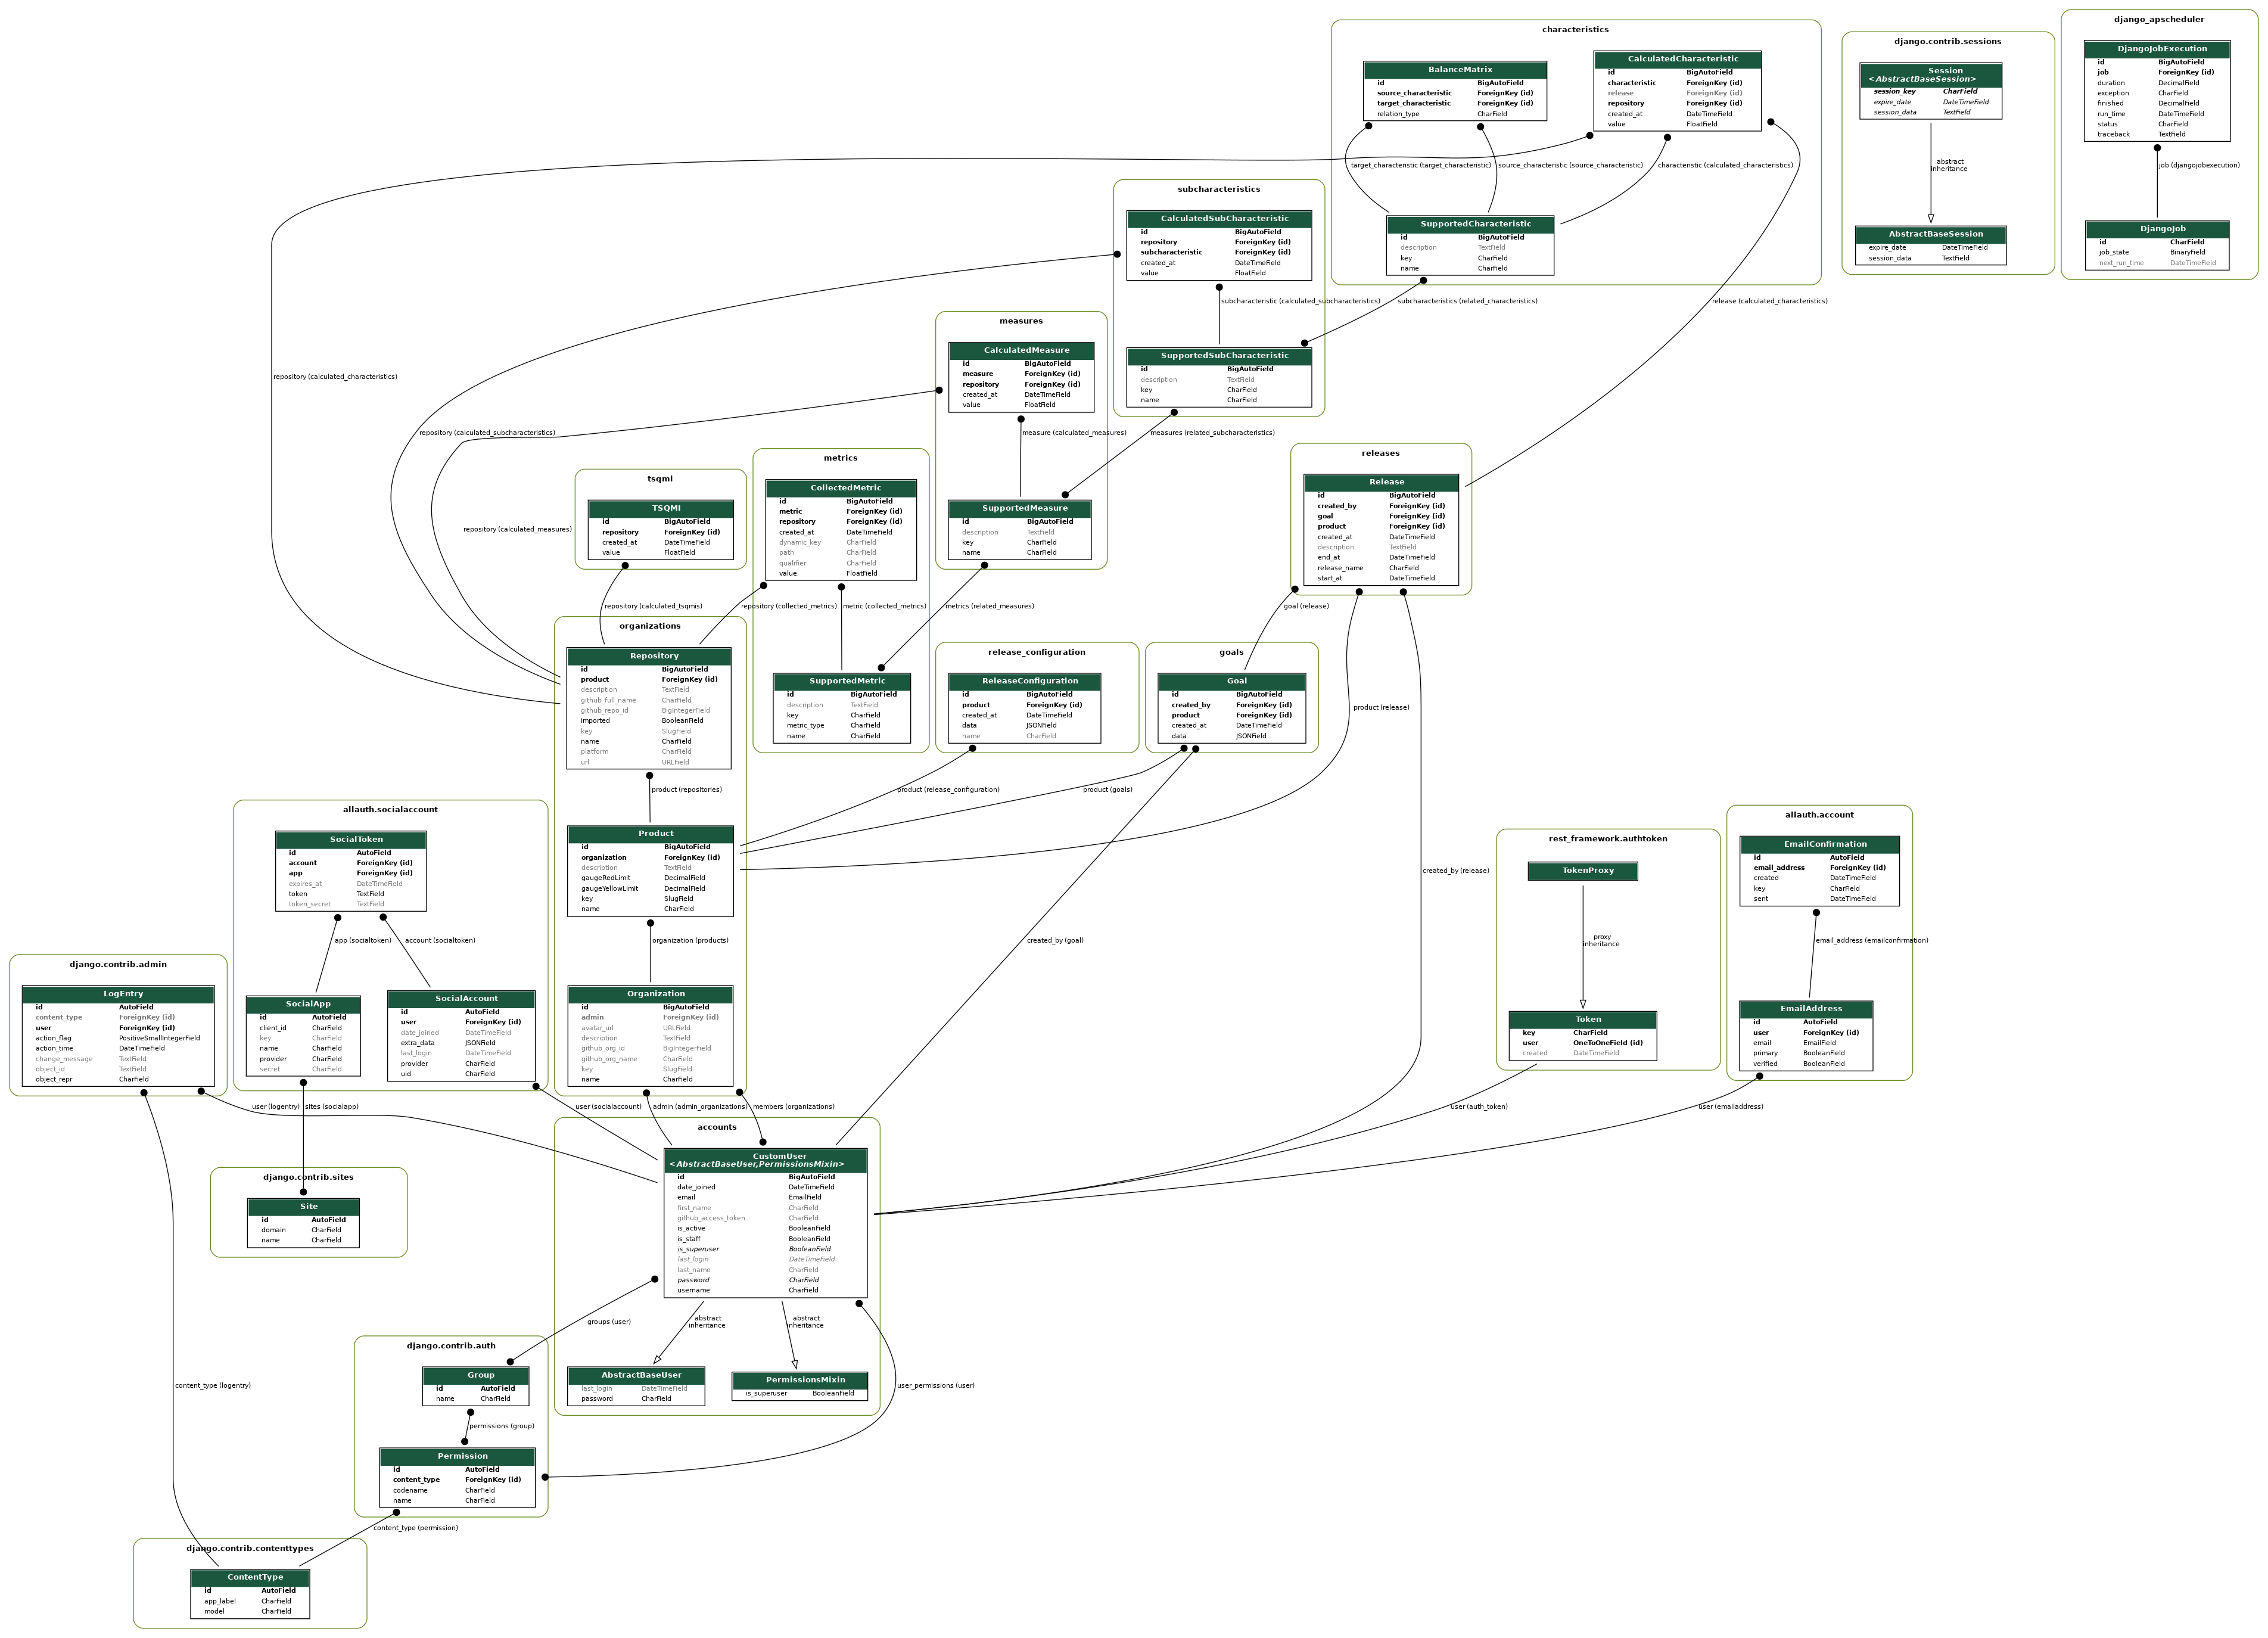
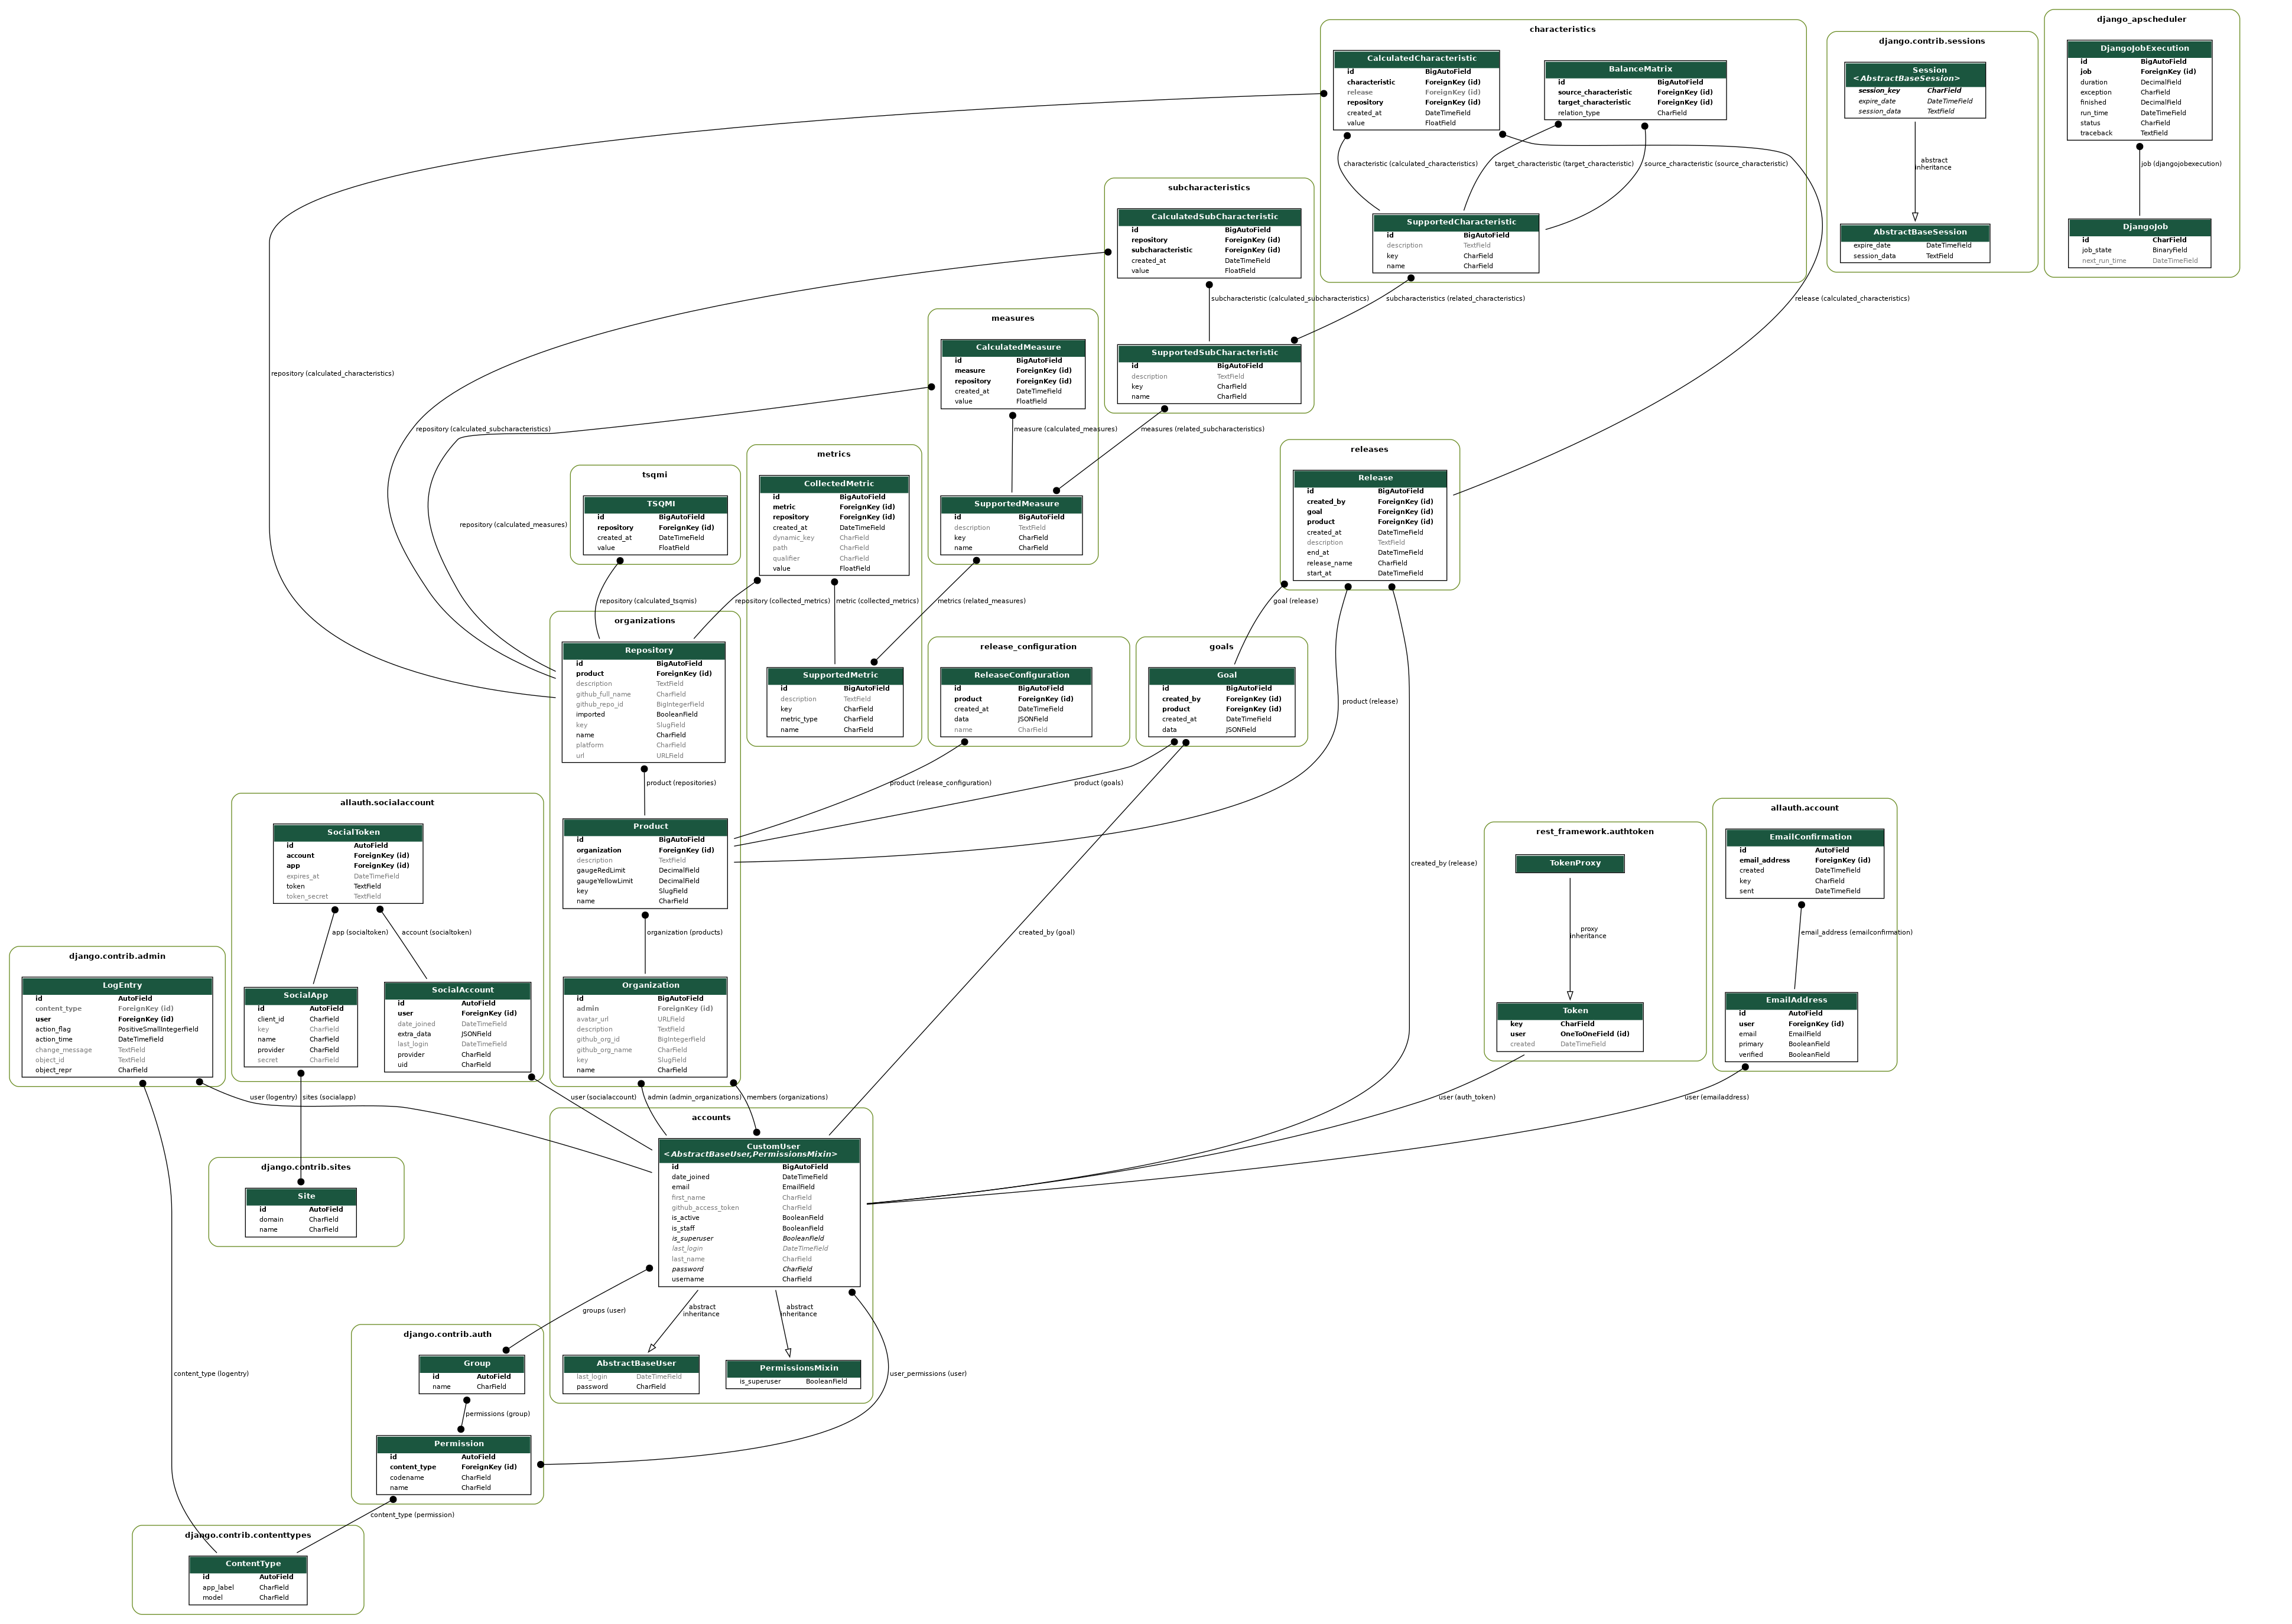
docs: atualiza DLD, remove limitação de casos de uso e corrige dados de qualidade
- Regenera o DLD (dld_gerado_graph_models.png) via graph_models a partir do
  models.py da branch develop do Service, removendo o diagrama manual do
  brModelo (DLD_MEASURE_2026.1.png) e mantendo só o gerado por introspecção.
- Remove o bloco de limitação conhecida da Visão de Casos de Uso.
- Corrige as tabelas de qualidade (planejado-realizado.md) usando somente os
  arquivos JSON de Analytics/data/: acerta o rótulo de release da Minor 4
  (estava com dados do Front da Minor 5), adiciona a Release Minor 5
  (15/06/2026, antes ausente), corrige as datas de última análise de CLI,
  Core e Parser na Major 3 e remove contagens de bugs/vulnerabilidades das
  tabelas. Adiciona a Release Minor 6 (06/07/2026).

diff --git a/docs/produto/planejado-realizado.md b/docs/produto/planejado-realizado.md
@@ -325,7 +325,7 @@ Dados provenientes dos arquivos persistidos em `Analytics/data/` referentes a 24
 | Core | Python | 1.392 | 91,6% * | — ¹ | A * | — | 0,0% * |
 | Front | TypeScript | 11.088 | 64,1% | **C** | A | — | 4,2% |
 | Parser | Python | 252 | 89,6% * | A * | A * | A (100%) * | 0,0% * |
-| Service | Python/Shell | 5.600 | 78,9% ² | A (3 bugs) | A | **E (0,0%)** | 0,7% |
+| Service | Python/Shell | 5.600 | 78,9% ² | A | A | **E (0,0%)** | 0,7% |
 
 **Conformidade com as metas planejadas:**
 
@@ -344,18 +344,23 @@ Dados provenientes dos arquivos persistidos em `Analytics/data/` referentes a 24
 
 ---
 
-#### Release Minor 4 (junho/2026)
+!!! info "Fonte dos dados desta revisão"
+    Os valores de Coverage, Linhas, Duplication e as classificações Reliability/Security das seções Minor 4, Minor 5 e Major 3 abaixo foram recalculados **exclusivamente a partir dos arquivos JSON persistidos em `Analytics/data/`** deste repositório (nenhuma captura de dashboard foi usada nesta revisão). Esses arquivos não incluem contagens de bugs/vulnerabilidades nem os campos "Hotspots Reviewed" e "Quality Gate" — por isso essas duas colunas mantêm o último valor conhecido (fonte: dashboard, revisões anteriores) e não fazem parte desta correção.
 
-Dados coletados do dashboard do SonarCloud para a Release Minor 4:
+#### Release Minor 4 (01/06/2026)
+
+Dados extraídos dos arquivos JSON persistidos mais próximos de 01/06/2026. Action e Front têm snapshot exatamente nesta data. CLI, Core, Parser e Service não foram reprocessados pelo SonarCloud no período — mantêm o último valor real disponível (marcado com `*`).
 
 | Repositório | Linguagem | Linhas | Coverage | Reliability | Security | Hotspots Reviewed | Duplication | Quality Gate |
 |-------------|-----------|--------|----------|-------------|----------|-------------------|-------------|:------------:|
-| Action | TypeScript | 663 | 82,7% | A (0 bugs) | A (0) | A (100%) | 0,0% | Passed |
-| CLI | Python | 1.800 | 90,8% | A (0 bugs) | A (0) | A (100%) | 0,0% | Passed |
-| Core | Python | 1.400 | 91,6% | A (3 bugs) | A (0) | A (100%) | 0,0% | Passed |
-| Front | TypeScript | 10.000 | 79,6% | **C (12 bugs)** | A (0) | A (100%) | 1,6% | Passed |
-| Parser | Python | 252 | 89,6% | A (0 bugs) | A (0) | A (100%) | 0,0% | — |
-| Service | Python/Shell | 5.600 | 78,9% | A (3 bugs) | A (0) | **E (0,0%)** | 0,7% | — |
+| Action | TypeScript | 663 | 82,7% | A | A | A (100%) | 0,0% | Passed |
+| CLI | Python | 1.790 | 90,8% * | A * | A * | A (100%) * | 0,0% * | Passed * |
+| Core | Python | 1.392 | 91,6% * | — * | A * | A (100%) * | 0,0% * | Passed * |
+| Front | TypeScript | 11.085 | **65,0%** | **C** | A | A (100%) | 4,2% | Passed |
+| Parser | Python | 252 | 89,6% * | A * | A * | A (100%) * | 0,0% * | — * |
+| Service | Python/Shell | 5.541 | 78,1% * | A * | A * | **E (0,0%)** * | 0,8% * | — * |
+
+> * Último snapshot real disponível nos arquivos de `Analytics/data/`: CLI e Service em 26/05/2026, Parser em 25/05/2026, Core em 12/05/2026 (última análise com medições — o snapshot de 25/05/2026 do Core retornou sem métricas, indício de recriação do componente no SonarCloud).
 
 **Conformidade com as metas planejadas:**
 
@@ -363,26 +368,55 @@ Dados coletados do dashboard do SonarCloud para a Release Minor 4:
 |-------------|:--------------:|:-------------:|:----------:|:----------:|:-----------------:|
 | Action | Não (82,7%) | Sim | Sim | Sim | Sim |
 | CLI | Sim (90,8%) | Sim | Sim | Sim | Sim |
-| Core | Sim (91,6%) | Sim | Sim | Sim | Sim |
+| Core | Sim (91,6%) | — | Sim | Sim | Sim |
+| Front | **Não (65,0%)** | **Não (C)** | Sim | Sim | **Não (4,2%)** |
+| Parser | Sim (89,6%) | Sim | Sim | Sim | Sim |
+| Service | Não (78,1%) | Sim | Sim | **Não (E)** | Sim |
+
+---
+
+#### Release Minor 5 (15/06/2026)
+
+Dados extraídos dos arquivos JSON persistidos mais próximos de 15/06/2026. Front e Parser têm snapshot exatamente nesta data; CLI tem snapshot em 16/06/2026 (1 dia após, mais próximo disponível). Action, Core e Service não possuem análise nova neste período e mantêm os mesmos valores da Minor 4 (marcados com `*`).
+
+| Repositório | Linguagem | Linhas | Coverage | Reliability | Security | Hotspots Reviewed | Duplication | Quality Gate |
+|-------------|-----------|--------|----------|-------------|----------|-------------------|-------------|:------------:|
+| Action | TypeScript | 663 | 82,7% * | A * | A * | A (100%) * | 0,0% * | Passed * |
+| CLI | Python | 1.790 | 90,8% ** | A ** | A ** | A (100%) ** | 0,0% ** | Passed ** |
+| Core | Python | 1.392 | 91,6% * | — * | A * | A (100%) * | 0,0% * | Passed * |
+| Front | TypeScript | 10.233 | **79,6%** | **C** | A | A (100%) | 1,6% | Passed |
+| Parser | Python | 252 | 89,6% | A | A | A (100%) | 0,0% | — |
+| Service | Python/Shell | 5.541 | 78,1% * | A * | A * | **E (0,0%)** * | 0,8% * | — * |
+
+> * Sem análise nova desde 01/06/2026 (Action) ou 26/05/2026 (Core, Service) — valores repetidos da Minor 4.
+> ** Snapshot de 16/06/2026 (1 dia após a data da release), snapshot mais próximo disponível para a CLI.
+
+**Conformidade com as metas planejadas:**
+
+| Repositório | Coverage ≥ 85% | Reliability A | Security A | Hotspots A | Duplication ≤ 3% |
+|-------------|:--------------:|:-------------:|:----------:|:----------:|:-----------------:|
+| Action | Não (82,7%) | Sim | Sim | Sim | Sim |
+| CLI | Sim (90,8%) | Sim | Sim | Sim | Sim |
+| Core | Sim (91,6%) | — | Sim | Sim | Sim |
 | Front | Não (79,6%) | **Não (C)** | Sim | Sim | Sim |
 | Parser | Sim (89,6%) | Sim | Sim | Sim | Sim |
-| Service | Não (78,9%) | Sim | Sim | **Não (E)** | Sim |
+| Service | Não (78,1%) | Sim | Sim | **Não (E)** | Sim |
 
 ---
 
 #### Release Major 3 (29/06/2026)
 
-Dados coletados diretamente do dashboard do SonarCloud em 29/06/2026. Os repositórios Action (última análise 01/06/2026), CLI (04/05/2026), Core e Parser (26/04/2026) e Service (25/05/2026) não possuem análises novas desde releases anteriores — valores refletem o último snapshot disponível no SonarCloud (marcados com `*`). Esta release inclui pela primeira vez o repositório **Plugin**, que não constava nas releases anteriores.
+Dados extraídos diretamente dos arquivos JSON persistidos em 29/06/2026 (ou no snapshot real disponível mais próximo). Front e Parser têm snapshot exatamente nesta data. Action (última análise real 01/06/2026), CLI (16/06/2026), Core (12/05/2026) e Service (26/05/2026) não possuem análises novas desde então — valores refletem o último snapshot real disponível em `Analytics/data/` (marcados com `*`). Esta release inclui pela primeira vez o repositório **Plugin**, que ainda não está integrado ao pipeline de coleta de `Analytics/data/` — seus valores seguem os últimos registrados nesta revisão, sem fonte própria nos arquivos deste repositório.
 
 | Repositório | Linguagem | Linhas | Coverage | Reliability | Security | Hotspots Reviewed | Duplication | Quality Gate |
 |-------------|-----------|--------|----------|-------------|----------|:-----------------:|-------------|:------------:|
-| Action | TypeScript | 663 | 82,7% * | A (0 bugs) * | A (0) * | A (100%) * | 0,0% * | Passed * |
-| CLI | Python | 1.800 | 90,8% * | A (0 bugs) * | A (0) * | A (100%) * | 0,0% * | Passed * |
-| Core | Python | 1.400 | 91,6% * | A (3 bugs) * | A (0) * | A (100%) * | 0,0% * | Passed * |
-| Front | TypeScript | 11.000 | 82,8% | **C (12 bugs)** | A (0) | A (100%) | 1,5% | Passed |
-| Parser | Python | 252 | 89,6% * | A (0 bugs) * | A (0) * | A (100%) * | 0,0% * | — * |
-| Plugin | TypeScript, CSS | 2.900 | 90,2% | **C (20 bugs)** | **E (2)** | **E (0,0%)** | 1,6% | **Failed** |
-| Service | Python/Shell | 5.600 | 78,9% * | A (3 bugs) * | A (0) * | **E (0,0%)** * | 0,7% * | — * |
+| Action | TypeScript | 663 | 82,7% * | A * | A * | A (100%) * | 0,0% * | Passed * |
+| CLI | Python | 1.790 | 90,8% * | A * | A * | A (100%) * | 0,0% * | Passed * |
+| Core | Python | 1.392 | 91,6% * | — * | A * | A (100%) * | 0,0% * | Passed * |
+| Front | TypeScript | 10.777 | 82,8% | **C** | A | A (100%) | 1,5% | Passed |
+| Parser | Python | 252 | 89,6% | A | A | A (100%) | 0,0% | — |
+| Plugin | TypeScript, CSS | 2.900 | 90,2% | **C** | **E** | **E (0,0%)** | 1,6% | **Failed** |
+| Service | Python/Shell | 5.541 | 78,1% * | A * | A * | **E (0,0%)** * | 0,8% * | — * |
 
 **Conformidade com as metas planejadas:**
 
@@ -390,91 +424,168 @@ Dados coletados diretamente do dashboard do SonarCloud em 29/06/2026. Os reposit
 |-------------|:--------------:|:-------------:|:----------:|:----------:|:-----------------:|
 | Action | Não (82,7%) | Sim | Sim | Sim | Sim |
 | CLI | Sim (90,8%) | Sim | Sim | Sim | Sim |
-| Core | Sim (91,6%) | Sim | Sim | Sim | Sim |
+| Core | Sim (91,6%) | — | Sim | Sim | Sim |
 | Front | Não (82,8%) | **Não (C)** | Sim | Sim | Sim |
 | Parser | Sim (89,6%) | Sim | Sim | Sim | Sim |
 | Plugin | Sim (90,2%) | **Não (C)** | **Não (E)** | **Não (E)** | Sim |
-| Service | Não (78,9%) | Sim | Sim | **Não (E)** | Sim |
+| Service | Não (78,1%) | Sim | Sim | **Não (E)** | Sim |
 
-> * Último snapshot disponível — repositório não reprocessado pelo SonarCloud entre a release anterior e a Major 3. Os valores refletem a última análise registrada.
+> * Último snapshot real disponível em `Analytics/data/` — repositório não reprocessado pelo SonarCloud entre a data indicada e a Major 3. Parser e Front têm snapshot no próprio dia 29/06/2026, por isso não levam marcador.
+
+---
+
+#### Release Minor 6 (06/07/2026)
+
+Dados extraídos dos arquivos JSON persistidos mais próximos de 06/07/2026, data desta release. Apenas o **Front** foi reprocessado pelo SonarCloud nesse dia (snapshot exato). Action, CLI, Core, Parser e Service não têm análise nova desde a Major 3 e mantêm os mesmos valores (marcados com `*`); o **Service** segue retornando erro de componente não encontrado no SonarCloud em todos os runs de julho até o momento. O **Plugin** segue sem integração ao pipeline de `Analytics/data/`.
+
+| Repositório | Linguagem | Linhas | Coverage | Reliability | Security | Hotspots Reviewed | Duplication | Quality Gate |
+|-------------|-----------|--------|----------|-------------|----------|:-----------------:|-------------|:------------:|
+| Action | TypeScript | 663 | 82,7% * | A * | A * | A (100%) * | 0,0% * | Passed * |
+| CLI | Python | 1.790 | 90,8% * | A * | A * | A (100%) * | 0,0% * | Passed * |
+| Core | Python | 1.392 | 91,6% * | — * | A * | A (100%) * | 0,0% * | Passed * |
+| Front | TypeScript | 10.809 | 82,7% | **C** | A | A (100%) | 1,5% | Passed |
+| Parser | Python | 252 | 89,6% * | A * | A * | A (100%) * | 0,0% * | — * |
+| Plugin | TypeScript, CSS | 2.900 | 90,2% * | **C** * | **E** * | **E (0,0%)** * | 1,6% * | **Failed** * |
+| Service | Python/Shell | 5.541 | 78,1% * | A * | A * | **E (0,0%)** * | 0,8% * | — * |
+
+**Conformidade com as metas planejadas:**
+
+| Repositório | Coverage ≥ 85% | Reliability A | Security A | Hotspots A | Duplication ≤ 3% |
+|-------------|:--------------:|:-------------:|:----------:|:----------:|:-----------------:|
+| Action | Não (82,7%) | Sim | Sim | Sim | Sim |
+| CLI | Sim (90,8%) | Sim | Sim | Sim | Sim |
+| Core | Sim (91,6%) | — | Sim | Sim | Sim |
+| Front | Não (82,7%) | **Não (C)** | Sim | Sim | Sim |
+| Parser | Sim (89,6%) | Sim | Sim | Sim | Sim |
+| Plugin | Sim (90,2%) | **Não (C)** | **Não (E)** | **Não (E)** | Sim |
+| Service | Não (78,1%) | Sim | Sim | **Não (E)** | Sim |
+
+> * Sem snapshot novo em `Analytics/data/` nesta data — valor carregado da Major 3 (29/06/2026) ou, para o Service, do último snapshot real em 26/05/2026.
 
 ### 5.3. Análise
 
-#### Tendências transversais (Major 1 → Major 2 → Minor 4 → Major 3)
+#### Tendências transversais (Major 1 → Major 2 → Minor 4 → Minor 5 → Major 3 → Minor 6)
 
-**Service — coverage inconsistente nas releases anteriores à Major 2:**
-Os arquivos persistidos de analytics registraram 0% de coverage para o Service entre as Releases Major 1 e Minor 3, reflexo da perda parcial de histórico decorrente da recriação dos repositórios no SonarCloud e de problemas de configuração do pipeline de cobertura neste período. O dashboard do SonarCloud confirmou que na data da Major 2 (25/05/2026) o Service já reportava **78,9% de coverage**, nível mantido na Release Minor 4. A causa raiz dos valores incorretos nas releases anteriores está na configuração do `sonar.properties`, onde arquivos de teste estavam sendo excluídos da análise em determinados runs do CI.
+**Service — coverage inconsistente nas releases anteriores à Major 2, sem reprocessamento desde 26/05/2026:**
+Os arquivos persistidos de analytics registraram 0% de coverage para o Service entre as Releases Major 1 e Minor 3, reflexo da perda parcial de histórico decorrente da recriação dos repositórios no SonarCloud e de problemas de configuração do pipeline de cobertura neste período. O snapshot persistido de 26/05/2026 (o mais recente com dados reais do Service) registra **78,1% de coverage** — nível carregado sem alteração para as Releases Minor 4, Minor 5 e Major 3, já que todos os runs de junho retornaram erro de componente não encontrado no SonarCloud (indício de nova recriação do repositório). Esse valor difere ligeiramente dos 78,9% usados na seção da Major 2, que vieram de uma captura de dashboard feita naquela data — a pequena divergência (0,8 p.p.) provavelmente reflete o momento exato da medição, não uma regressão real. A causa raiz dos valores incorretos nas releases anteriores está na configuração do `sonar.properties`, onde arquivos de teste estavam sendo excluídos da análise em determinados runs do CI.
 
 **Front — Security E nas duas primeiras releases:**
 O Front registrou `security_rating = E` (5.0) nas Releases Major 1 e Minor 2. Esse indicador foi corrigido a partir da Release Minor 3, quando o repositório passou a reportar `A`. A queda de 17.066 para 11.045 linhas entre Minor 2 e Minor 3 (branch `fix-sonar-coverage`) coincide com essa melhora, sugerindo que arquivos que introduziam vulnerabilidades de segurança foram excluídos ou corrigidos.
 
-**Front — Coverage e Duplication persistentemente abaixo das metas:**
-A coverage do Front ficou indisponível até Minor 3, quando começou a ser reportada em 62,0% (Minor 3) e 64,1% (Major 2), evoluindo para 79,6% na Minor 4 — ainda abaixo da meta de 85%. A duplicação manteve-se acima de 3% do Minor 3 em diante, com 4,2% (Minor 3 e Major 2) reduzindo para 1,6% na Minor 4.
+**Front — Coverage e Duplication com trajetória irregular até a Major 3, estável na Minor 6:**
+A coverage do Front ficou indisponível até Minor 3, quando começou a ser reportada em 62,0% (Minor 3) e 64,1% (Major 2). Na Minor 4 (01/06/2026) ela **caiu para 65,0%**, subiu para 79,6% na Minor 5 (15/06/2026), chegou a 82,8% na Major 3 (29/06/2026) e se manteve praticamente estável em 82,7% na Minor 6 (06/07/2026) — ainda abaixo da meta de 85%, mas em patamar consolidado desde a Major 3. A duplicação seguiu padrão semelhante: 4,2% na Minor 3, Major 2 **e Minor 4**, caindo para 1,6% na Minor 5 e se mantendo em 1,5% na Major 3 e na Minor 6 — dentro do limite de 3% desde a Minor 5.
 
 **CLI — Coverage crítica na Major 1:**
-A CLI registrou apenas 11,0% de coverage na Major 1 (v0.1.0). Esse problema foi resolvido antes da Minor 2, quando a cobertura subiu para 90,8%, nível mantido em todas as releases seguintes.
+A CLI registrou apenas 11,0% de coverage na Major 1 (v0.1.0). Esse problema foi resolvido antes da Minor 2, quando a cobertura subiu para 90,8%, nível mantido em todas as releases seguintes (confirmado por snapshot real mais recente em 16/06/2026).
 
 **Action — Coverage consistentemente abaixo de 85%:**
-A Action manteve 82,8% de coverage em todas as releases analisadas, ligeiramente abaixo da meta de 85%.
+A Action manteve 82,7%–82,8% de coverage em todas as releases analisadas, ligeiramente abaixo da meta de 85%. Sem reprocessamento pelo SonarCloud desde 01/06/2026.
 
 **Service — Security C até a Minor 3, resolvido na Major 2:**
-O Service registrou `security_rating = C` nas Releases Major 1, Minor 2 e Minor 3. O indicador foi resolvido até a data da Major 2 (25/05/2026), quando o dashboard do SonarCloud já registrava Security A — nível mantido na Release Minor 4.
+O Service registrou `security_rating = C` nas Releases Major 1, Minor 2 e Minor 3. O indicador foi resolvido até a data da Major 2 (25/05/2026) e confirmado no snapshot real de 26/05/2026 (Security A) — nível carregado sem mudança para as Releases Minor 4, Minor 5 e Major 3.
 
 ---
 
 #### Release Minor 4
 
-Na Release Minor 4, a maioria dos repositórios apresentou boa aderência às metas de qualidade. Os pontos críticos identificados são:
+Na Release Minor 4, o Front apresentou queda de coverage e teve o pior desempenho da release; os demais repositórios mantiveram boa aderência às metas:
 
-**Front (TypeScript — 10k linhas):**
+**Front (TypeScript — 11k linhas):**
 
-- Reliability classificada como **C** com 12 bugs registrados — abaixo da meta de "A".
-- Coverage de **79,6%** abaixo da meta de 85%.
-- Ação necessária: resolução dos bugs e aumento da cobertura de testes unitários.
+- Coverage de **65,0%** — pior valor de coverage do Front em todo o período analisado, bem abaixo da meta de 85%.
+- Duplication de **4,2%**, acima do limite de 3%.
+- Reliability classificada como **C** — abaixo da meta de "A".
+- Ação necessária: investigar a causa da queda de coverage e priorizar testes antes da próxima release.
 
-**Service (Python/Shell — 5,6k linhas):**
+**Service (Python/Shell — 5,5k linhas):**
 
 - Hotspots de segurança com **0,0% revisados** (classificação **E**) — hotspots não avaliados representam risco de segurança não mapeado.
-- Coverage de **78,9%** abaixo da meta.
+- Coverage de **78,1%** abaixo da meta (dado de 26/05/2026, sem reprocessamento desde então).
 - Ação necessária: revisar e classificar todos os security hotspots no SonarCloud e ampliar a cobertura de testes.
 
 **Action (TypeScript — 663 linhas):**
 
 - Coverage de **82,7%** ligeiramente abaixo da meta de 85%.
 
-Os repositórios **CLI, Core e Parser** atenderam todas as metas definidas para a release.
+Os repositórios **CLI, Core e Parser** atenderam todas as metas definidas para a release (com dados carregados de snapshots anteriores, sem reprocessamento no período).
 
 ---
 
-#### Release Major 3
+#### Release Minor 5
 
-Na Release Major 3, o destaque é a entrada do novo repositório **Plugin**, que apresentou Quality Gate com status **Failed** e indicadores críticos de segurança:
+Na Release Minor 5, o Front se recuperou fortemente em relação à Minor 4, revertendo a queda de coverage e trazendo a duplicação para dentro da meta:
 
-**Plugin (TypeScript, CSS — 2,9k linhas):**
+**Front (TypeScript — 10,2k linhas):**
 
-- Coverage de **90,2%** — acima da meta de 85%, ponto positivo do repositório.
-- Reliability classificada como **C** com 20 bugs registrados — abaixo da meta de "A".
-- Security classificada como **E** com 2 vulnerabilidades abertas.
-- Hotspots de segurança com **0,0% revisados** (classificação **E**).
-- Quality Gate: **Failed** — o repositório não passou na porta de qualidade do SonarCloud.
-- Ação necessária: corrigir vulnerabilidades de segurança, revisar todos os hotspots e reduzir os bugs de reliability.
+- Coverage subiu de 65,0% (Minor 4) para **79,6%**, aproximando-se da meta de 85%.
+- Duplication caiu de 4,2% (Minor 4) para **1,6%**, entrando dentro do limite de 3%.
+- Reliability permanece como **C** — não houve progresso neste indicador.
 
-**Front (TypeScript — 11k linhas):**
+**Service (Python/Shell — 5,5k linhas):**
 
-- Coverage evoluiu de 79,6% (Minor 4) para **82,8%**, aproximando-se da meta de 85%.
-- Duplication reduziu de 1,6% (Minor 4) para **1,5%**, dentro do limite de 3%.
-- Reliability permanece como **C** com 12 bugs — não houve progresso neste indicador.
-
-**Service (Python/Shell — 5,6k linhas):**
-
-- Hotspots de segurança permanecem com **0,0% revisados** (classificação **E**) — problema persistente desde a Major 2.
-- Coverage de **78,9%** abaixo da meta de 85%.
+- Hotspots de segurança permanecem com **0,0% revisados** (classificação **E**) — sem reprocessamento desde 26/05/2026.
+- Coverage de **78,1%** abaixo da meta de 85%.
 
 **Action (TypeScript — 663 linhas):**
 
 - Coverage de **82,7%** ligeiramente abaixo da meta de 85%. Sem análise nova desde 01/06/2026.
 
-Os repositórios **CLI, Core e Parser** mantiveram boa aderência às metas. A principal preocupação da Major 3 é a qualidade do repositório Plugin, recém-incorporado ao ecossistema, que demanda atenção imediata para atingir os padrões definidos.
+Os repositórios **CLI, Core e Parser** mantiveram boa aderência às metas planejadas.
+
+---
+
+#### Release Major 3
+
+Na Release Major 3, o destaque é a entrada do novo repositório **Plugin**, que apresentou Quality Gate com status **Failed** e indicadores críticos de segurança. O Plugin ainda não está integrado ao pipeline de `Analytics/data/` deste repositório, então seus indicadores não puderam ser reconfirmados nesta revisão:
+
+**Plugin (TypeScript, CSS — 2,9k linhas):**
+
+- Coverage de **90,2%** — acima da meta de 85%, ponto positivo do repositório.
+- Reliability classificada como **C** — abaixo da meta de "A".
+- Security classificada como **E**.
+- Hotspots de segurança com **0,0% revisados** (classificação **E**).
+- Quality Gate: **Failed** — o repositório não passou na porta de qualidade do SonarCloud.
+- Ação necessária: corrigir vulnerabilidades de segurança, revisar todos os hotspots e reduzir os bugs de reliability.
+
+**Front (TypeScript — 10,8k linhas):**
+
+- Coverage evoluiu de 79,6% (Minor 5) para **82,8%**, aproximando-se da meta de 85%.
+- Duplication reduziu de 1,6% (Minor 5) para **1,5%**, dentro do limite de 3%.
+- Reliability permanece como **C** — não houve progresso neste indicador.
+
+**Service (Python/Shell — 5,5k linhas):**
+
+- Hotspots de segurança permanecem com **0,0% revisados** (classificação **E**) — problema persistente desde a Major 2.
+- Coverage de **78,1%** abaixo da meta de 85%, sem reprocessamento desde 26/05/2026.
+
+**Action (TypeScript — 663 linhas):**
+
+- Coverage de **82,7%** ligeiramente abaixo da meta de 85%. Sem análise nova desde 01/06/2026.
+
+Os repositórios **CLI, Core e Parser** mantiveram boa aderência às metas (CLI e Parser com snapshots reais confirmados em 16/06/2026 e 29/06/2026, respectivamente). A principal preocupação da Major 3 é a qualidade do repositório Plugin, recém-incorporado ao ecossistema, que demanda atenção imediata para atingir os padrões definidos.
+
+---
+
+#### Release Minor 6
+
+Na Release Minor 6 (06/07/2026), apenas o **Front** foi reprocessado pelo SonarCloud; os demais repositórios repetem os valores da Major 3 (ou, no caso do Service, da última análise real de 26/05/2026):
+
+**Front (TypeScript — 10,8k linhas):**
+
+- Coverage praticamente estável em **82,7%** (era 82,8% na Major 3), ainda abaixo da meta de 85%.
+- Duplication mantida em **1,5%**, dentro do limite de 3%.
+- Reliability permanece como **C** — ainda sem progresso neste indicador desde a Minor 5.
+
+**Service (Python/Shell — 5,5k linhas):**
+
+- Sem análise nova pelo SonarCloud — todos os runs de julho até o momento retornam erro de componente não encontrado, mesmo comportamento observado desde a Minor 4.
+- Hotspots de segurança seguem com **0,0% revisados** (classificação **E**) e coverage carregado de **78,1%**, ambos do último snapshot real (26/05/2026).
+
+**Plugin (TypeScript, CSS — 2,9k linhas):**
+
+- Segue sem integração ao pipeline de `Analytics/data/` — indicadores mantidos da Major 3 (Quality Gate **Failed**, Reliability **C**, Security **E**). Ação necessária ainda pendente: integrar o Plugin à coleta automatizada de métricas para permitir acompanhamento contínuo.
+
+Os repositórios **Action, CLI, Core e Parser** seguem sem reprocessamento no período, mantendo os mesmos valores e a mesma boa aderência às metas já registrada na Major 3.
 
 ---
 
@@ -499,3 +610,5 @@ Durante o andamento das sprints, foi observada redução na probabilidade de cer
 | 09/06/2026 | Anacleto | Expansão com dados por release e SonarCloud RM4 | 2.0 |
 | 10/06/2026 | Anacleto | Preenche seção 5.2 com métricas do SonarCloud extraídas dos snapshots de Analytics/data para Major 1, Minor 2, Minor 3 e Major 2. Adiciona análise transversal de tendências na seção 5.3. Corrige dados da Major 2 para o Service (78,9% coverage confirmado via screenshot do SonarCloud; JSON de 25/05 estava vazio). | 2.1 |
 | 29/06/2026 | Anacleto | Adiciona seção de qualidade da Release Major 3 (dados do SonarCloud de 29/06/2026) com inclusão do repositório Plugin; adiciona seção 2.7 e análise da Major 3 na seção 5.3. | 2.2 |
+| 06/07/2026 | Anacleto | Recalcula as seções de qualidade da Minor 4 (01/06/2026), adiciona a Release Minor 5 (15/06/2026, antes ausente do documento) e corrige a Major 3, usando exclusivamente os arquivos JSON persistidos em `Analytics/data/` como fonte. Corrige um erro de rotulagem: os dados de Front antes atribuídos à "Minor 4" eram na verdade do snapshot de 15/06 (Minor 5) — o Front da Minor 4 real (01/06) tinha coverage de 65,0%, não 79,6%. Corrige também as datas de "última análise" de CLI (16/06, não 04/05), Core (12/05, não 26/04) e Parser (29/06 exato, não 26/04) na Major 3, e ajusta o coverage do Service para 78,1% (valor do JSON de 26/05, antes usava 78,9% de uma captura de dashboard). | 2.3 |
+| 06/07/2026 | Anacleto | Remove contagens de bugs/vulnerabilidades das tabelas de qualidade (Major 2, Major 3), mantendo apenas a classificação por letra — dado não coberto pelos arquivos de `Analytics/data/`. Adiciona a Release Minor 6 (06/07/2026, data desta revisão), com dado real do Front extraído do snapshot do próprio dia e os demais repositórios carregados da Major 3. | 2.4 |

diff --git a/docs/planejamento/arquitetura.md b/docs/planejamento/arquitetura.md
@@ -418,9 +418,6 @@ flowchart TB
 
 <p align = "justify"> &emsp;&emsp; O time do MeasureSoftGram documenta requisitos como <strong>histórias de usuário</strong> (backlog em <code>docs/produto/planejado-realizado.md</code>, identificadas por <code>US-XXX</code>), não como casos de uso UML. Esta seção deriva os casos de uso a partir dessas histórias já entregues/planejadas, agrupados pelos atores que de fato aparecem no código e na documentação do produto. </p>
 
-!!! note "Limitação conhecida"
-    As personas do Lean Inception (`docs/produto/lean-inception.md`) existem apenas como imagens/board do Figma, sem texto extraível — por isso os atores abaixo foram inferidos das histórias de usuário e da integração real entre os serviços, não do material de personas. Não foi encontrada nenhuma história de usuário para o **Plugin VS Code**: ele só aparece no backlog como item de métricas de qualidade (Release Major 3), sem requisito funcional descrito. Um caso de uso para o Plugin exigiria levantamento de requisitos que ainda não existe em texto — **ação necessária: registrar as histórias de usuário do Plugin no backlog do produto.**
-
 #### Atores
 
 | Ator | Descrição |
@@ -770,17 +767,7 @@ REPOSITORY - armazena - TSQMI
 
 ### Diagrama Lógico de Dados (DLD)
 
-<p align = "justify"> &emsp;&emsp; Esta seção traz dois diagramas complementares, seguidos das tabelas físicas detalhadas coluna a coluna. </p>
-
-#### 1. Diagrama feito no brModelo
-
-<p align = "justify"> &emsp;&emsp; Diagrama modelado manualmente no brModelo, restrito às entidades de domínio do MeasureSoftGram: chaves primárias e estrangeiras, tabelas de relacionamento/junção (<code>possui</code>, <code>cria</code>, <code>armazena</code>, <code>origina</code>, <code>compoe</code>, entre outras) e as cardinalidades entre elas. Não inclui as tabelas de infraestrutura de terceiros (Django, allauth, etc.). </p>
-
-![Diagrama Lógico de Dados - brModelo](../assets/images/DLD_MEASURE_2026.1.png)
-
-#### 2. Diagrama gerado automaticamente
-
-<p align = "justify"> &emsp;&emsp; Diagrama gerado por introspecção real do código, com o comando <code>python manage.py graph_models -a -g -o dld_gerado_graph_models.png</code> (django-extensions + graphviz) rodado dentro do container <code>service</code> contra os <code>models.py</code> atuais. Por ser gerado automaticamente a partir do código, não depende de transcrição manual — em contrapartida, ao usar <code>-a</code> (all applications), ele também traz as tabelas de infraestrutura de terceiros (<code>django.contrib.*</code>, <code>allauth</code>, <code>django_apscheduler</code>, <code>rest_framework.authtoken</code>) que o diagrama do brModelo e o MER textual desta seção deixam propositalmente fora de escopo. </p>
+<p align = "justify"> &emsp;&emsp; Diagrama gerado por introspecção real do código, com o comando <code>python manage.py graph_models -a -g -o dld_gerado_graph_models.png</code> (django-extensions + graphviz) rodado dentro do container <code>service</code> contra os <code>models.py</code> da branch <code>develop</code> (base canônica do repositório). Por ser gerado automaticamente a partir do código, não depende de transcrição manual — em contrapartida, ao usar <code>-a</code> (all applications), ele também traz as tabelas de infraestrutura de terceiros (<code>django.contrib.*</code>, <code>allauth</code>, <code>django_apscheduler</code>, <code>rest_framework.authtoken</code>) que o MER textual desta seção deixa propositalmente fora de escopo. O app <code>grafana_proxy</code> não aparece com tabelas próprias porque não define nenhum model: ele apenas repassa (proxy) chamadas para a API do Grafana, que roda como serviço externo (ver <code>docker-compose.yml</code> e a seção de Serviços). </p>
 
 ![Diagrama Lógico de Dados - gerado automaticamente via django-extensions](../assets/images/dld_gerado_graph_models.png)
 